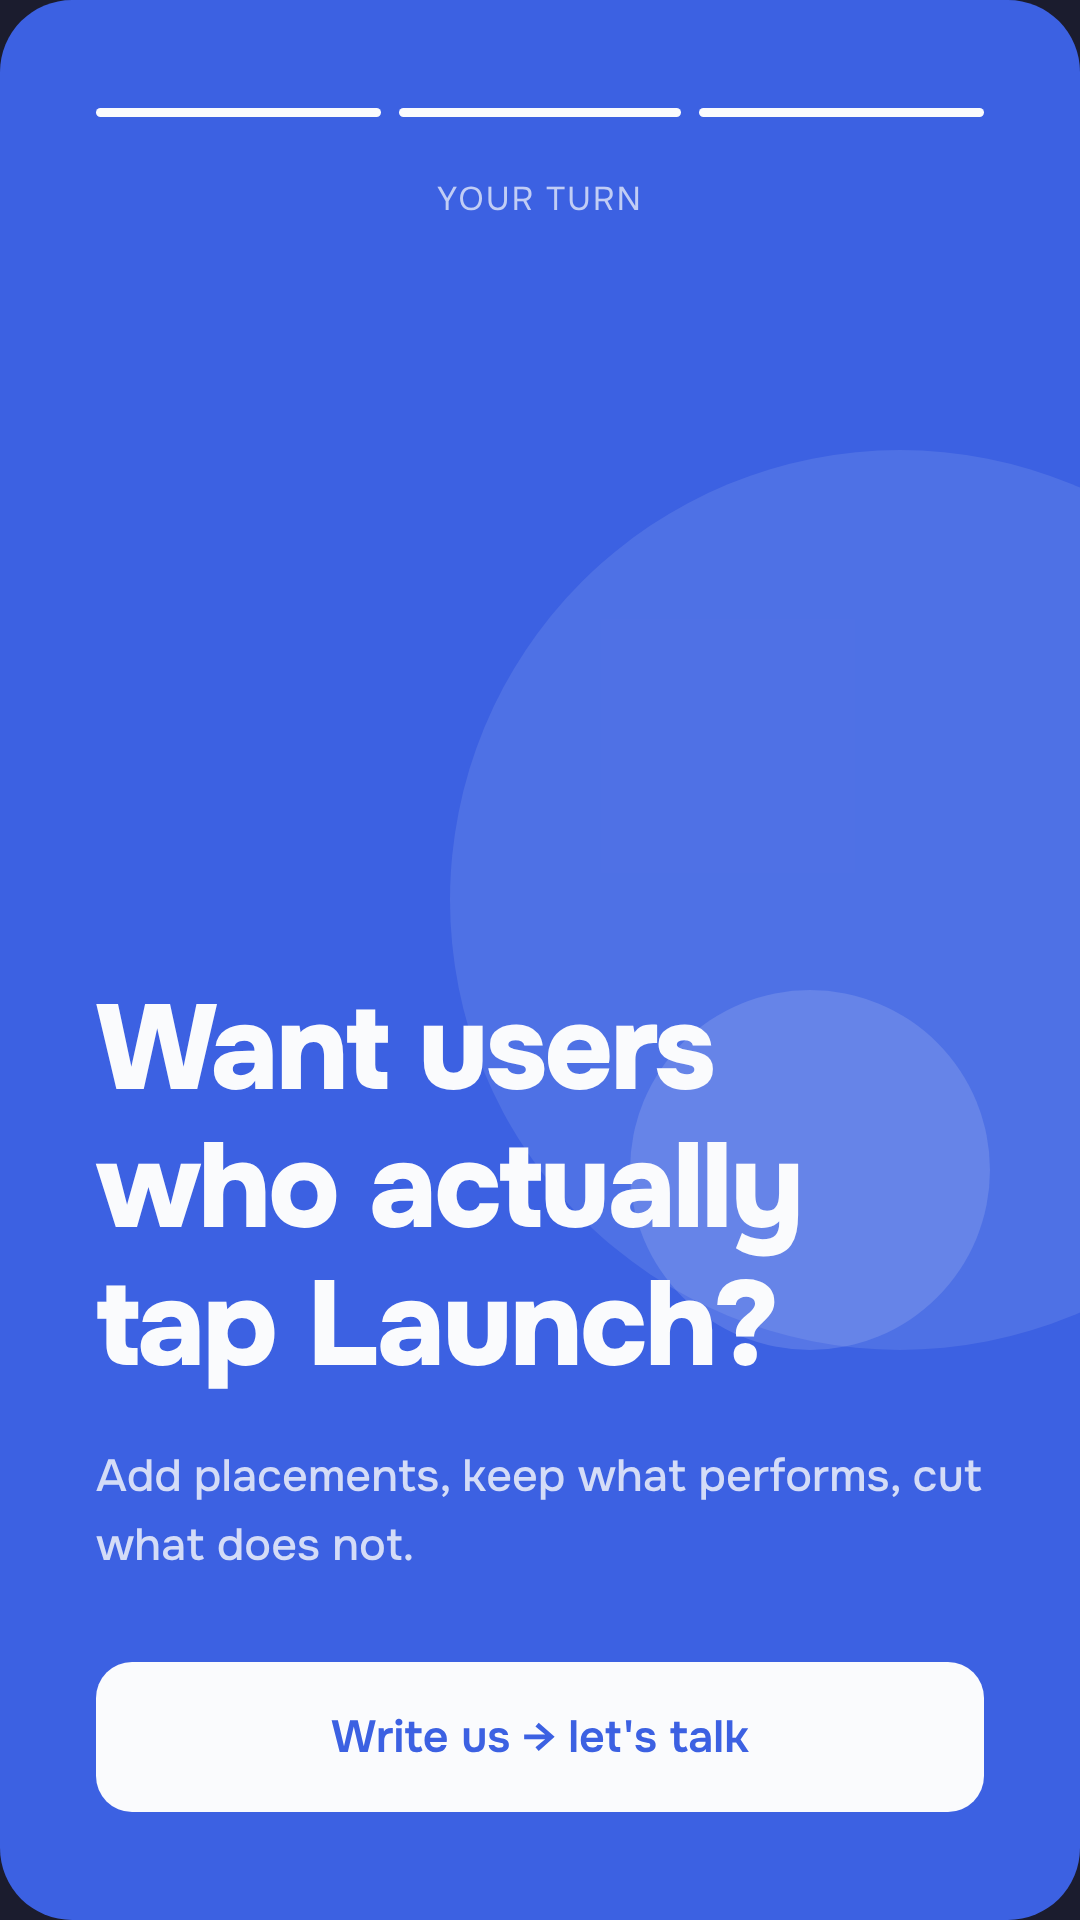
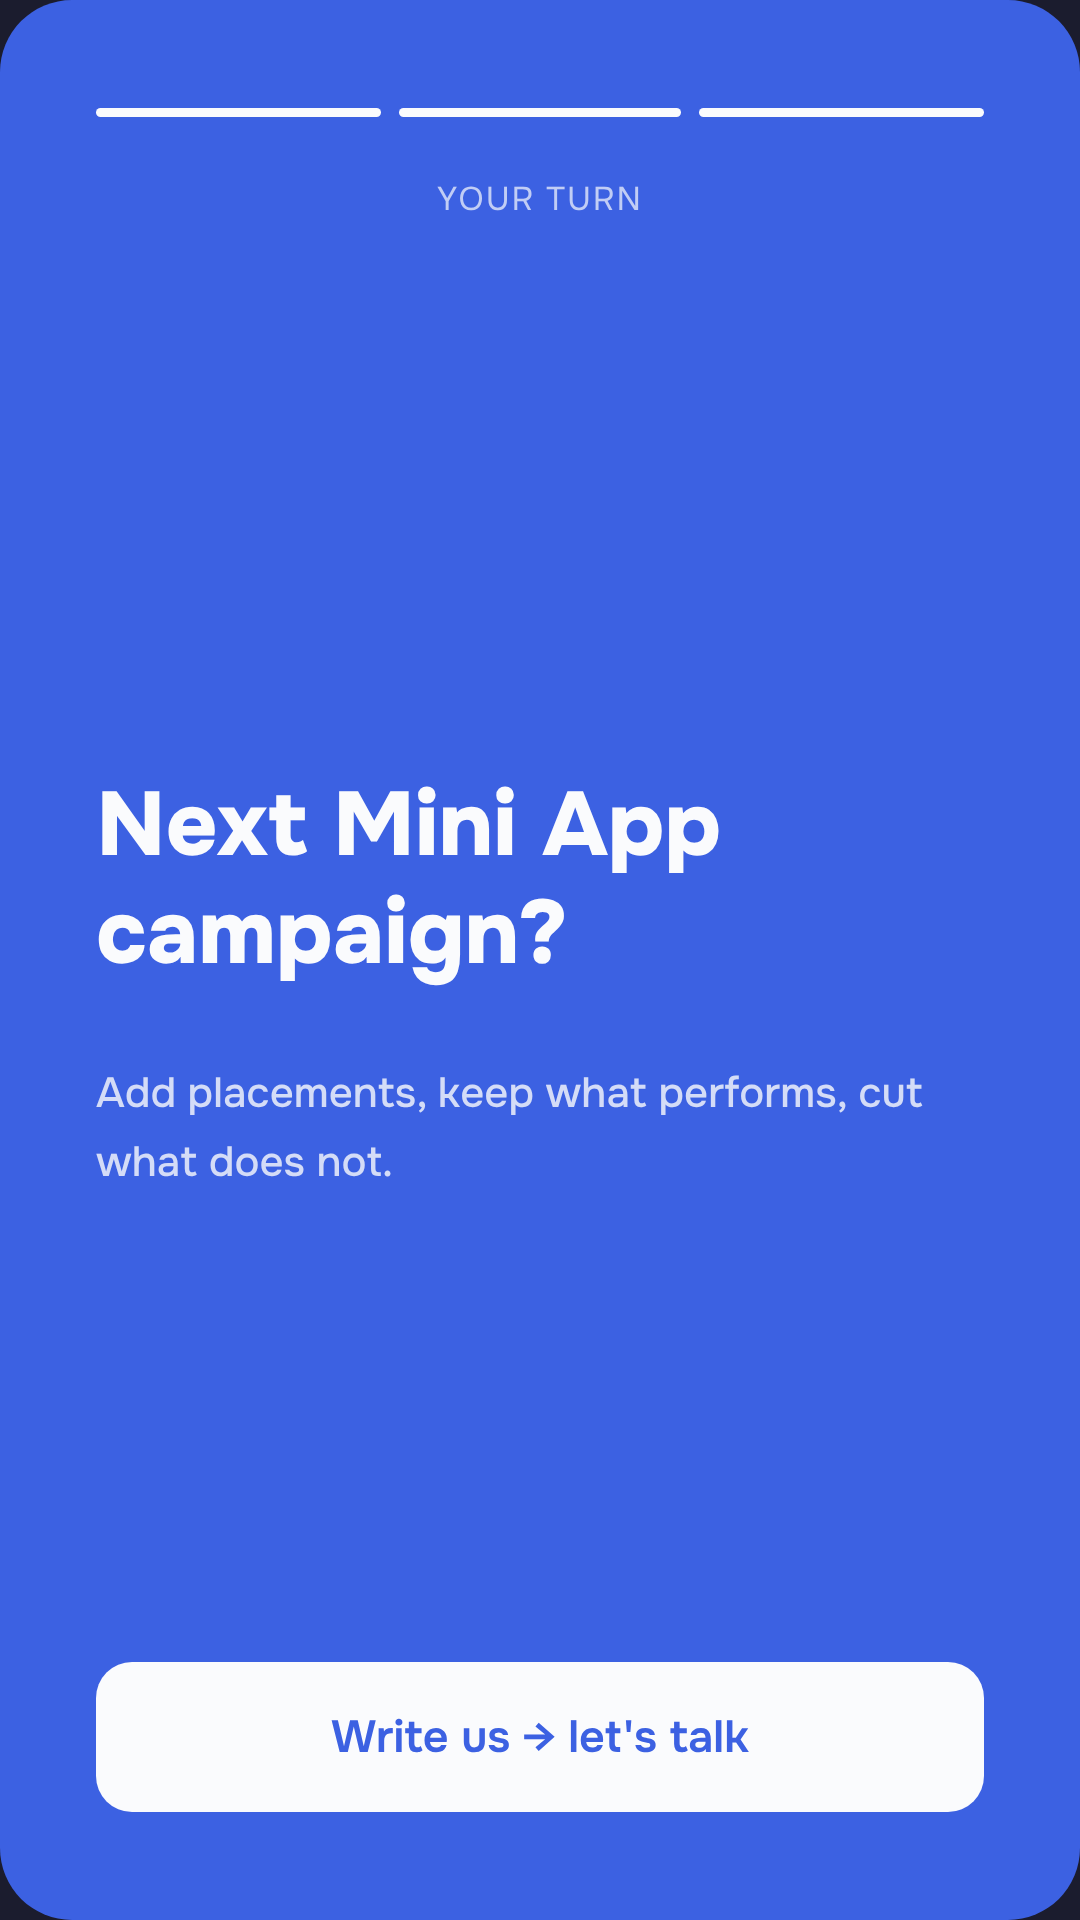
Format 02 slide 3: plain blue background, original centered layout
Claude-Session: https://claude.ai/code/session_019mQXRn9tmYz6Dk7Bw87Nyy

Changed region(s): [[0.0917, 0.4062, 0.9167, 0.7188], [0.0917, 0.75, 0.3972, 0.8125], [0.4278, 0.75, 0.9167, 0.7812]]

diff --git a/stories/uds-wheel-of-fortune-stories-2.html b/stories/uds-wheel-of-fortune-stories-2.html
@@ -100,16 +100,14 @@ body {
     <div style="display:flex;align-items:flex-start;gap:10px;margin-bottom:10px;"><span class="checkmark">✓</span><span style="font-size:14px;font-weight:500;color:#2D344D;line-height:1.45;">13+ crypto, forex and gold trading channels</span></div>
     <div style="display:flex;align-items:flex-start;gap:10px;margin-bottom:10px;"><span class="checkmark">✓</span><span style="font-size:14px;font-weight:500;color:#2D344D;line-height:1.45;">35+ hand-picked in total</span></div>
   </div>
-</div><div class="slide" style="background:#3C61E2;position:relative;">
-  <div style="position:absolute;right:-90px;top:150px;width:300px;height:300px;border-radius:50%;background:rgba(250,251,253,.10);"></div>
-  <div style="position:absolute;right:30px;top:330px;width:120px;height:120px;border-radius:50%;background:rgba(250,251,253,.14);"></div>
-  <div class="prog" style="position:relative;"><div class="ps" style="background:#FAFBFD;"></div><div class="ps" style="background:#FAFBFD;"></div><div class="ps" style="background:#FAFBFD;"></div></div>
-  <div class="section-label" style="color:rgba(250,251,253,.7);position:relative;">Your turn</div>
-  <div style="flex:1;display:flex;flex-direction:column;justify-content:flex-end;padding-bottom:28px;position:relative;">
-    <div style="font-size:40px;font-weight:800;color:#FAFBFD;line-height:1.15;letter-spacing:-1px;margin-bottom:16px;">Want users who actually tap Launch?</div>
-    <div style="font-size:15px;font-weight:500;color:rgba(250,251,253,.8);line-height:1.5;">Add placements, keep what performs, cut what does not.</div>
+</div><div class="slide" style="background:#3C61E2;">
+  <div class="prog"><div class="ps" style="background:#FAFBFD;"></div><div class="ps" style="background:#FAFBFD;"></div><div class="ps" style="background:#FAFBFD;"></div></div>
+  <div class="section-label" style="color:rgba(250,251,253,.7);">Your turn</div>
+  <div style="flex:1;display:flex;flex-direction:column;justify-content:center;">
+    <div style="font-size:30px;font-weight:800;color:#FAFBFD;line-height:1.2;margin-bottom:24px;">Next Mini App campaign?</div>
+    <div style="font-size:14px;font-weight:500;color:rgba(250,251,253,.8);line-height:1.6;">Add placements, keep what performs, cut what does not.</div>
   </div>
-  <button class="cta-btn" style="background:#FAFBFD;color:#3C61E2;position:relative;">Write us → let's talk</button>
+  <button class="cta-btn" style="background:#FAFBFD;color:#3C61E2;">Write us → let's talk</button>
 </div><div class="slide">
   <div class="prog"><div class="ps on"></div><div class="ps"></div><div class="ps"></div></div>
   <div class="section-label">Case</div>
